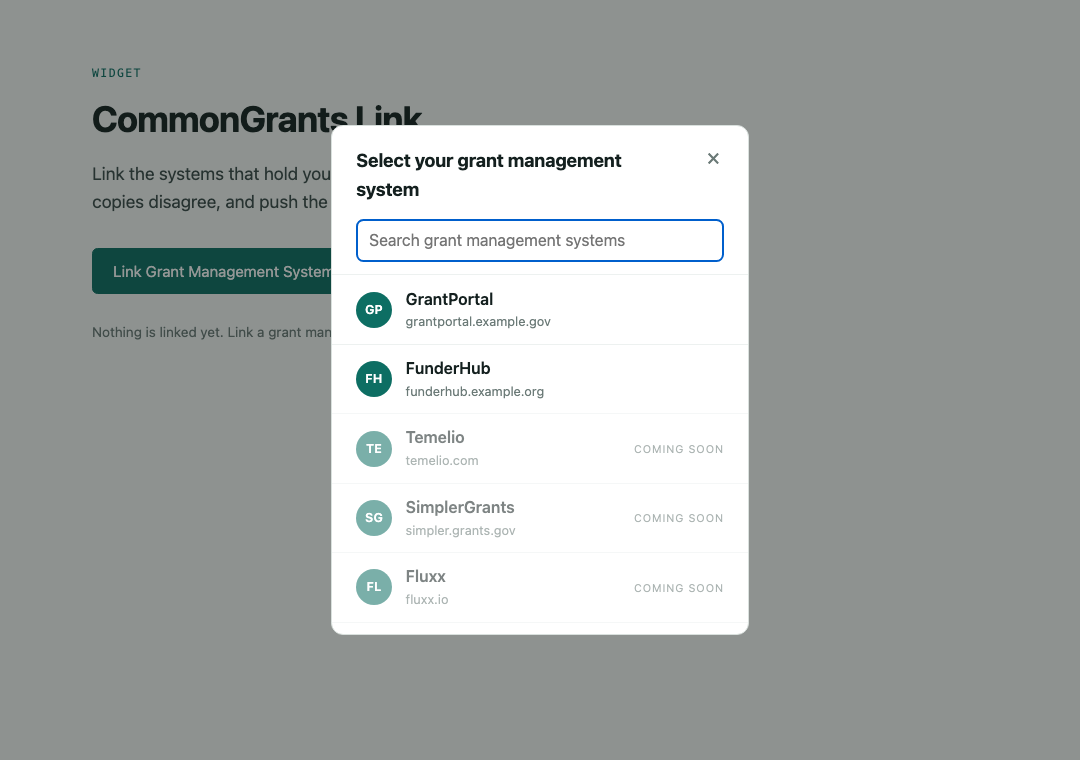
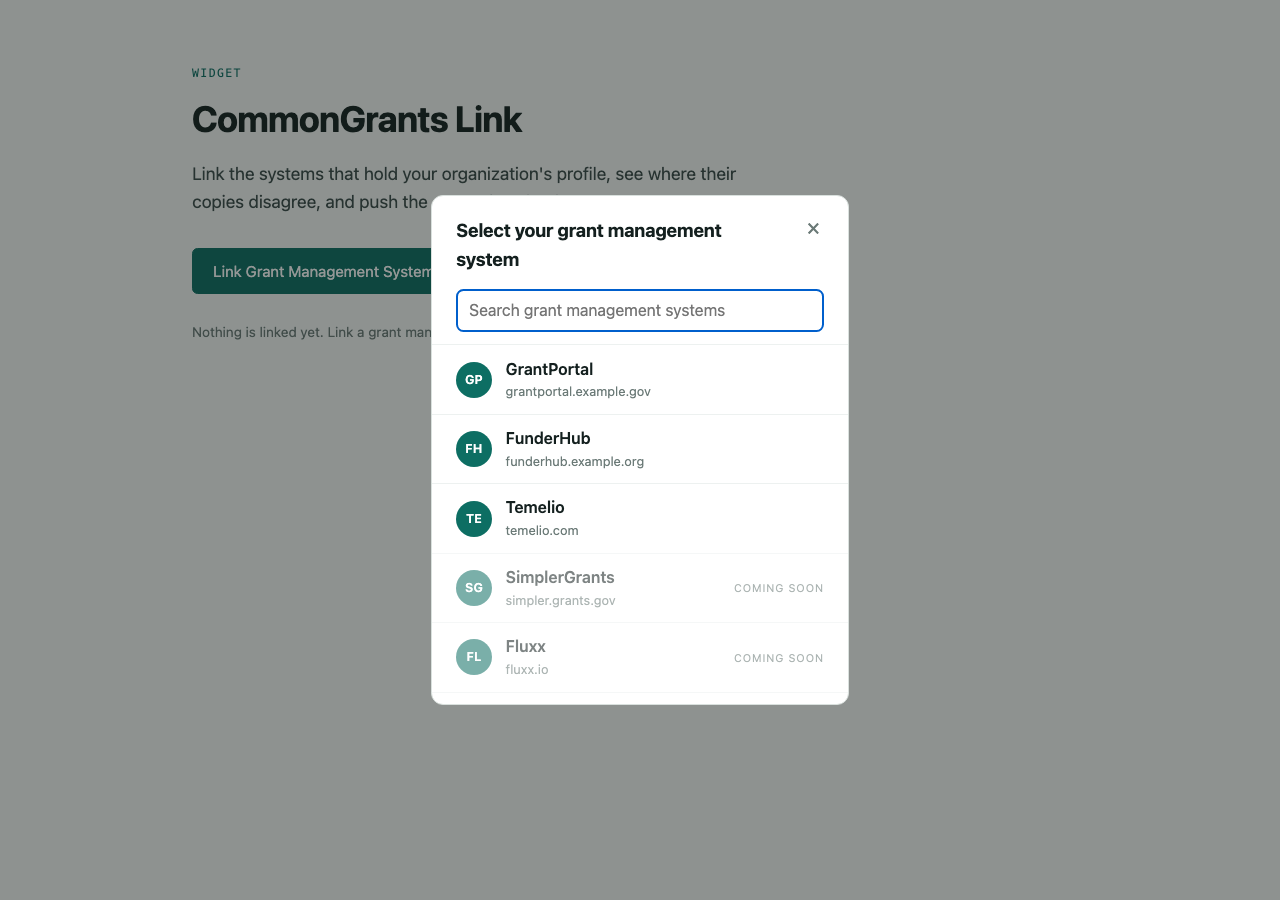
docs: generate the screenshots from a Playwright run, and show three systems
The README's screenshots were captured by hand during #1188 and showed two
systems, so every one of them was stale the moment Temelio joined the picker. A
stale screenshot of a demo is worse than none: it is what a reader believes
over the text next to it.

`pnpm --filter @cg-link/e2e run capture` now drives the real widget against the
real four apps and writes the files, so refreshing them is a command rather
than an afternoon. It runs under its own Playwright config, because writing
files into the repo is not something `pnpm e2e` should ever do as a side
effect.

Six shots now, all showing three systems: the picker, the organization step
locked to what is already linked, the grid with both disagreements flagged, a
push landing on two targets at once, a field one system declines, and the
adapter's own page holding what was pushed to it.

Changed region(s): [[0.0611, 0.0908, 0.7028, 0.8474], [0.1528, 0.0605, 0.1833, 0.0908]]

diff --git a/e2e/capture/screenshots.spec.ts b/e2e/capture/screenshots.spec.ts
@@ -1,0 +1,68 @@
+/**
+ * The screenshots the README and a pull request body use.
+ *
+ * Not part of `pnpm e2e`. It lives under its own config so the normal suite
+ * stays about behaviour, and so nobody has to capture these by hand — they go
+ * stale every time the widget changes, and a stale screenshot of a demo is
+ * worse than none, because it is what a reader believes over the text.
+ *
+ * Run: `pnpm --filter @cg-link/e2e run capture`
+ */
+
+import { ADMIN_EMAIL, TEMELIO_ORIGIN } from "../env.js";
+import { connect, expect, openWidget, test } from "../fixtures.js";
+import { FUNDERHUB_ORG_ID, PORTAL_ORG_ID, TEMELIO_ORG_ID } from "@cg-link/seed";
+
+const SHOTS = "../docs/screenshots";
+
+// Wide enough for three columns without a horizontal scrollbar, and short
+// enough that the interesting part is not lost in whitespace.
+test.use({ viewport: { width: 1280, height: 900 } });
+
+test("capture the picker, the grid, a sync, and the adapter's own page", async ({ page }) => {
+  await openWidget(page);
+  await page.getByTestId("link-system").click();
+  await expect(page.getByTestId("pick-system-temelio")).toBeVisible();
+  await page.screenshot({ path: `${SHOTS}/1-picker.png` });
+
+  // Escape the modal so the shot below is the grid rather than an overlay.
+  await page.keyboard.press("Escape");
+  await connect(page, "portal", ADMIN_EMAIL, PORTAL_ORG_ID);
+
+  // The organization step, taken on the second system: this is where the lock
+  // to the already-linked organization is visible.
+  await page.getByTestId("link-system").click();
+  await page.getByTestId("pick-system-funderhub").click();
+  const popup = page.waitForEvent("popup");
+  await page.getByTestId("continue-with-google").click();
+  const signIn = await popup;
+  await signIn.getByLabel("Email").fill(ADMIN_EMAIL);
+  await signIn.getByRole("button", { name: "Submit" }).click();
+  await expect(page.getByTestId(`org-${FUNDERHUB_ORG_ID}`)).toBeVisible();
+  await page.screenshot({ path: `${SHOTS}/2-organization.png` });
+
+  await page.getByTestId("confirm-org").click();
+  await connect(page, "temelio", ADMIN_EMAIL, TEMELIO_ORG_ID);
+
+  await expect(page.getByTestId("grid")).toBeVisible();
+  await expect(page.getByTestId("row-addresses.primary")).toHaveAttribute("data-status", "differs");
+  await page.screenshot({ path: `${SHOTS}/3-compare.png` });
+
+  await page.getByTestId("pick-addresses.primary-portal").click();
+  await expect(page.getByTestId("target-temelio")).toBeChecked();
+  await page.getByTestId("sync").click();
+  await expect(page.getByTestId("sync-result-temelio")).toHaveAttribute("data-ok", "true");
+  await expect(page.getByTestId("row-addresses.primary")).toHaveAttribute("data-status", "agree");
+  await page.screenshot({ path: `${SHOTS}/4-synced.png` });
+
+  // The field a system cannot store: accepted, dropped, and said out loud.
+  await page.getByTestId("pick-socials.website-portal").click();
+  await page.getByTestId("sync").click();
+  await expect(page.getByTestId("sync-result-funderhub")).toBeVisible();
+  await page.screenshot({ path: `${SHOTS}/5-declined.png` });
+
+  // And the far side of the push, on the adapter's own page.
+  await page.goto(TEMELIO_ORIGIN);
+  await expect(page.getByTestId("mode")).toBeVisible();
+  await page.screenshot({ path: `${SHOTS}/6-adapter.png` });
+});

diff --git a/e2e/playwright.capture.config.ts b/e2e/playwright.capture.config.ts
@@ -1,0 +1,15 @@
+import { defineConfig } from "@playwright/test";
+import base from "./playwright.config.js";
+
+/**
+ * The screenshot run, on the same four servers as the suite.
+ *
+ * A separate config rather than a spec in `specs/` so `pnpm e2e` stays a test
+ * command: this one writes files into the repo, which is not something a test
+ * run should ever do as a side effect.
+ */
+export default defineConfig({
+  ...base,
+  testDir: "./capture",
+  retries: 0,
+});

diff --git a/README.md b/README.md
@@ -24,7 +24,7 @@ back. The whole exchange is covered by browser tests.
 grant management systems — the two this demo runs, and others named but not wired up — the way you
 would pick a bank in Plaid.
 
-![The system picker: GrantPortal and FunderHub selectable, five more marked coming soon](docs/screenshots/1-picker.png)
+![The system picker: GrantPortal, FunderHub and Temelio selectable, four more marked coming soon](docs/screenshots/1-picker.png)
 
 **Sign in to each system, on its own terms.** Every system runs its own sign-in and then tells the
 widget which organizations you may act for. You pick one, and that is what the widget works on.
@@ -36,17 +36,17 @@ flagged. A field one system simply does not have shows as a gap, not a conflict.
 system and it is held to the organization you already chose — matched by EIN, since no two systems
 agree on ids.
 
-![The comparison grid: two systems, four fields, the address row flagged as differing](docs/screenshots/3-compare.png)
+![The comparison grid: three systems, four fields, the website and address rows flagged as differing](docs/screenshots/3-compare.png)
 
 **Fix a field everywhere in one click.** Click the value that is right, pick which systems should
 receive it, and sync. Each system gets a JSON Merge Patch that changes only that field.
 
-![After syncing GrantPortal's address to FunderHub, the row agrees and FunderHub reports the change was applied](docs/screenshots/5-synced.png)
+![After syncing GrantPortal's address to both other systems, the row agrees across all three and each target reports separately](docs/screenshots/4-synced.png)
 
 **Find out what a system could not store.** A system that does not model a field accepts the
 change, drops the field, and says so.
 
-![Pushing the website to FunderHub: accepted, with the message that this system does not store socials](docs/screenshots/6-declined.png)
+![Pushing the website: Temelio takes it, FunderHub accepts and reports that it does not store socials](docs/screenshots/5-declined.png)
 
 **Reach a system that never implemented the protocol.** The third system in the picker is Temelio,
 a real grants platform with its own API and no knowledge of CommonGrants. An adapter sits in front
@@ -56,6 +56,8 @@ widget lands as a write against Temelio's own API, and shows up on the grantee's
 Two fields come back declined, and the widget says which: Temelio has no field for an
 organization type, and a funder cannot rename its grantee. That is the honest shape of a vendor
 adapter, and saying so beats reporting a change that did not happen.
+
+![The adapter's own page, in fixture mode, showing the profile it holds after a push](docs/screenshots/6-adapter.png)
 
 **Connect another system without new code.** Every system exposes the same routes, so a third one
 is a config entry, not a feature.
